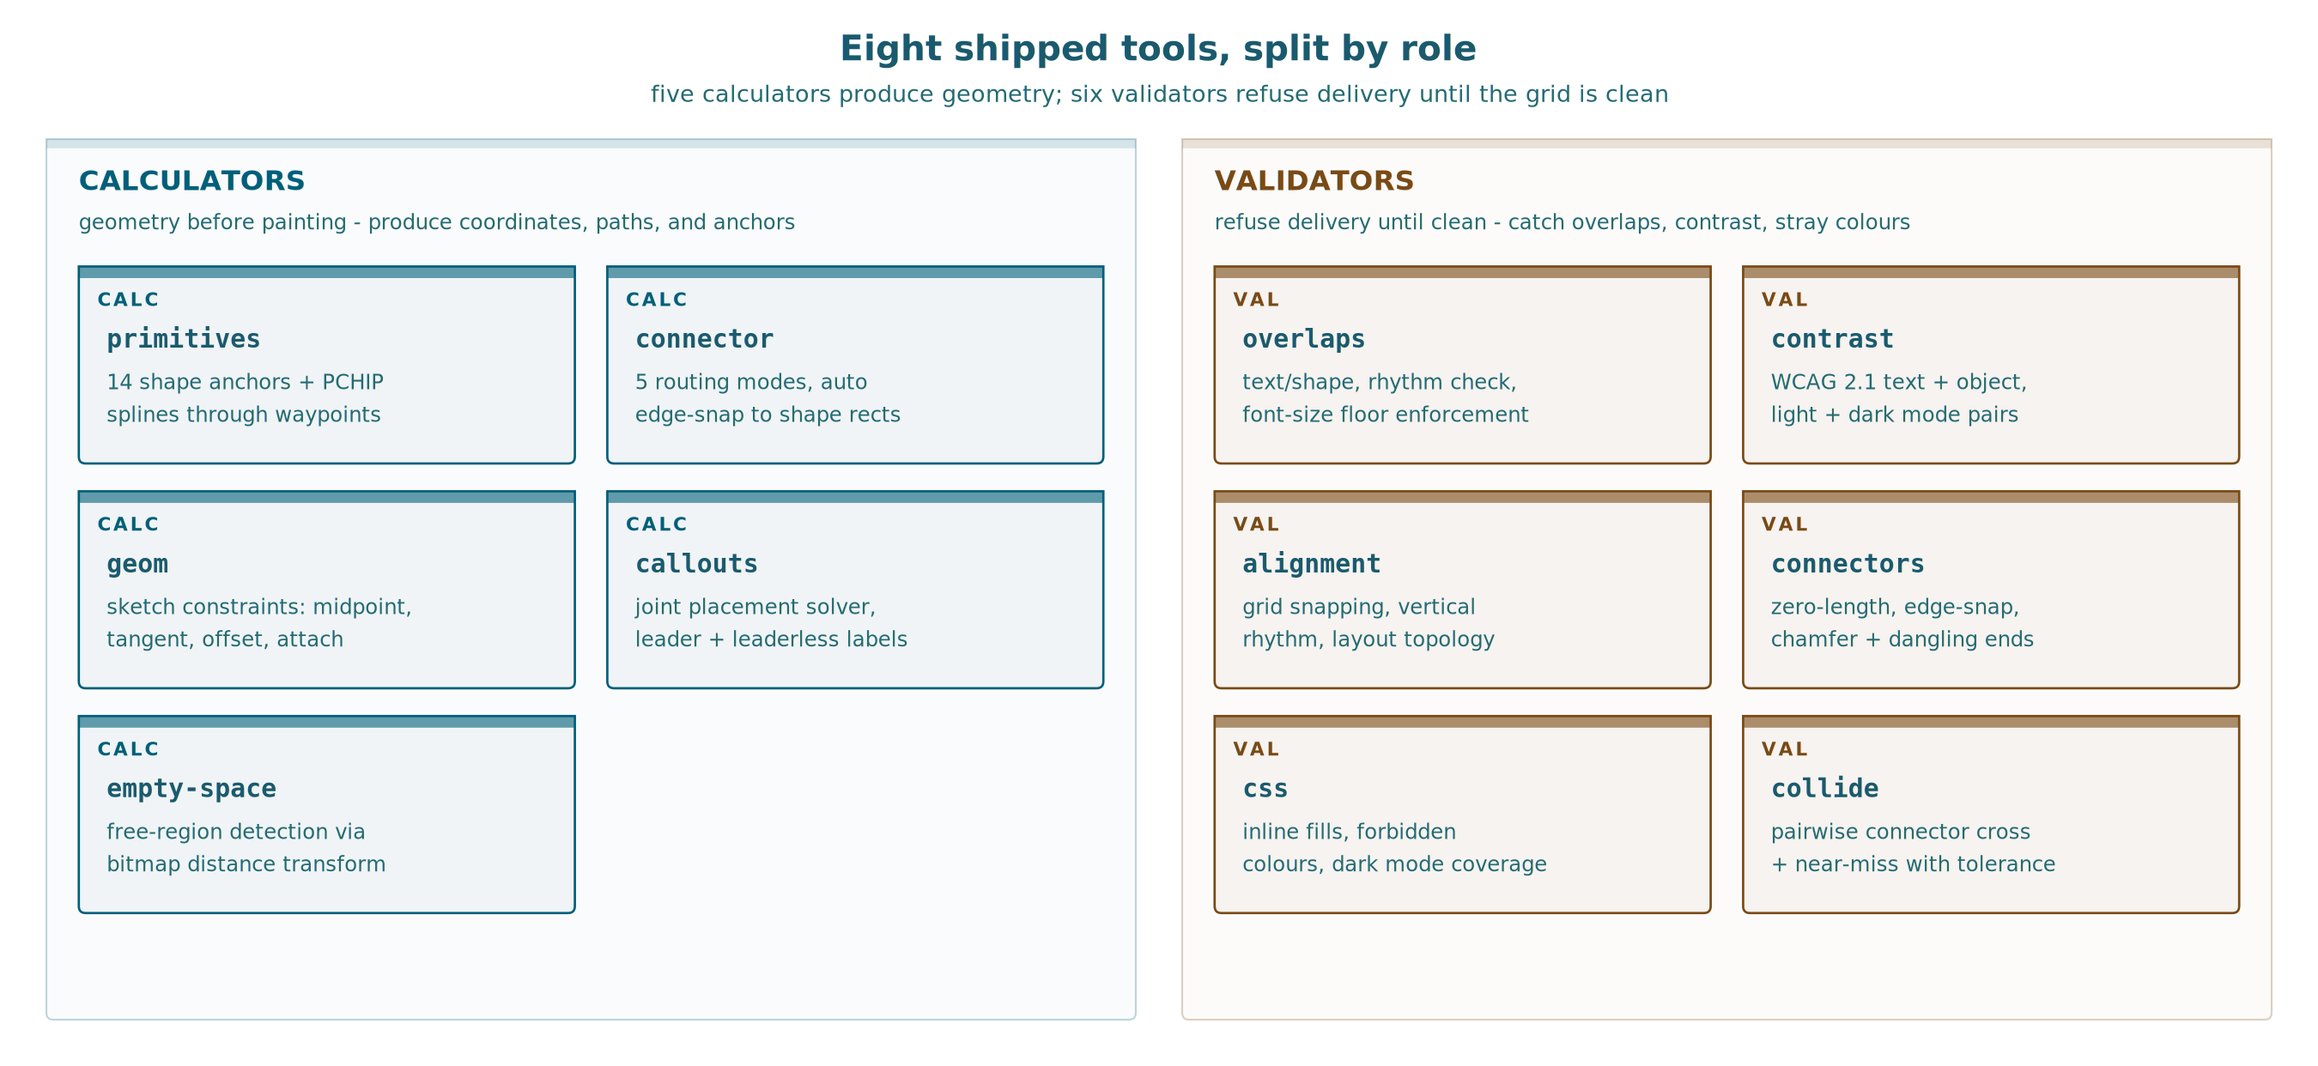
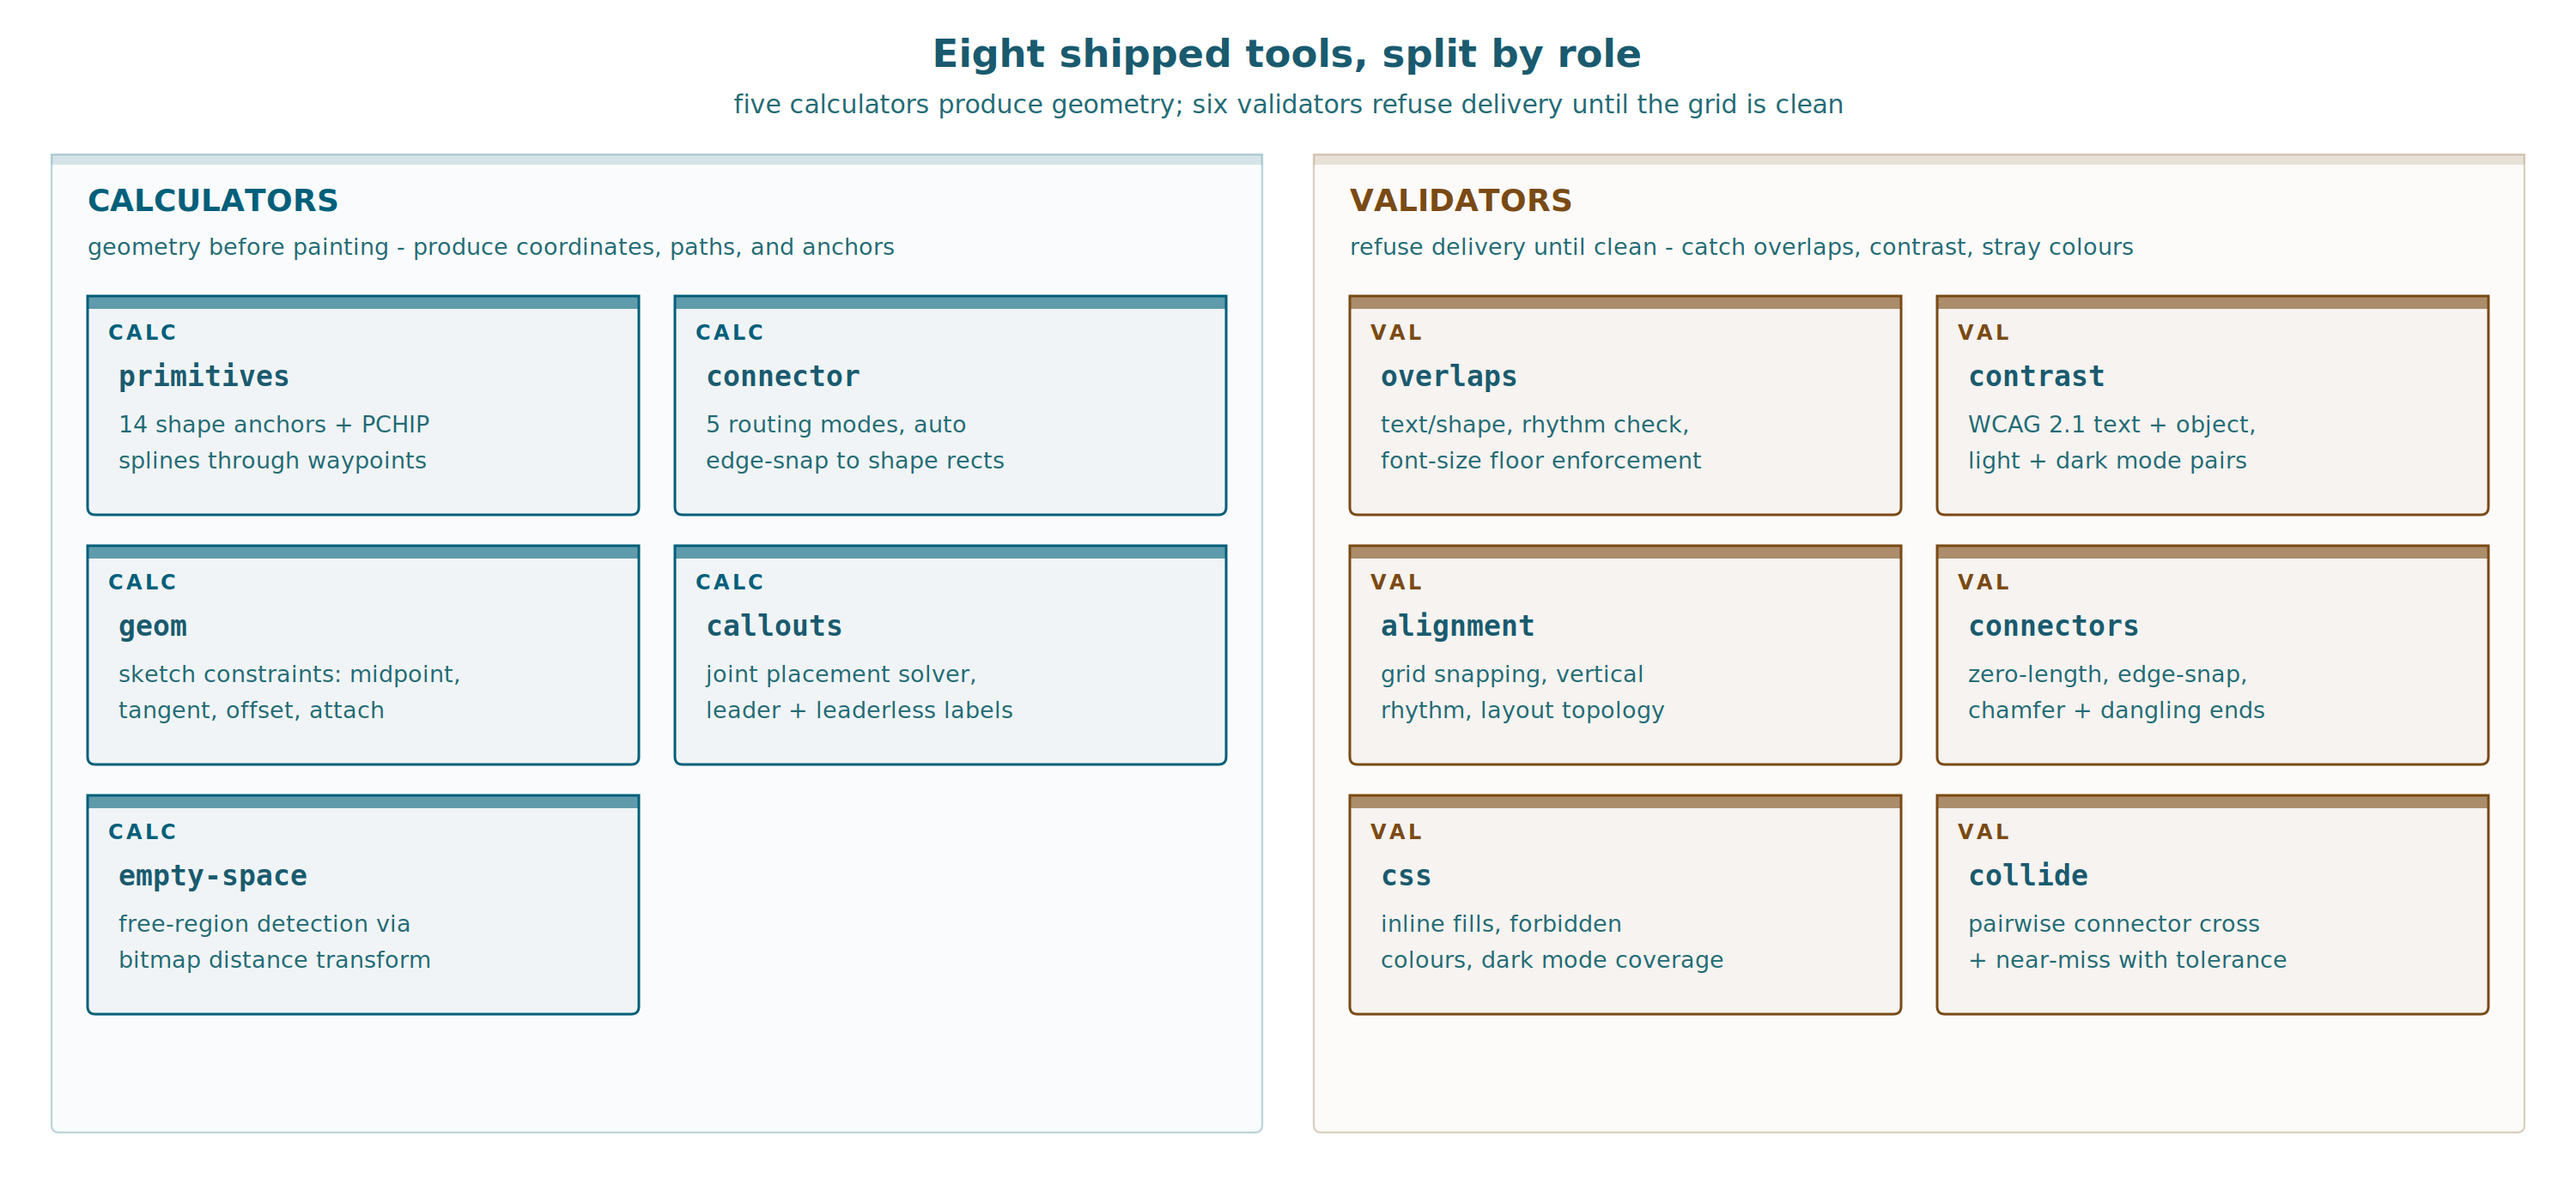
fix: re-render all article PNGs with white background
SVGs use fill="transparent" for dark-mode CSS switching but PNG has no
media queries - without --background "#ffffff" the transparent bg
renders as black, washing out all light-mode colours. Re-rendered all
20 article PNGs. Updated svg-designer agent and medium-article skill
to mandate --background "#ffffff" on all cairosvg calls.

diff --git a/svg-infographics/skills/svg-designer/SKILL.md b/svg-infographics/skills/svg-designer/SKILL.md
@@ -81,11 +81,13 @@ Follow the 6-phase workflow from the `workflow` skill. No shortcuts.
 
 ## Rendering
 
-After creating/modifying an SVG, render PNG at 3x resolution for visual check:
+After creating/modifying an SVG, render PNG at 3x resolution with WHITE background:
 
 ```bash
-cairosvg input.svg -o output.png --output-width 3000
+cairosvg input.svg -o output.png --output-width 3000 --background "#ffffff"
 ```
+
+**MANDATORY `--background "#ffffff"`**: SVGs use `fill="transparent"` for dark-mode CSS switching but PNG has no media queries. Without white background the PNG renders transparent = BLACK in most viewers, washing out all light-mode colours.
 
 Use `--output-width` at 3x the viewBox width. The `-d` flag alone does NOT change pixel dimensions.
 
